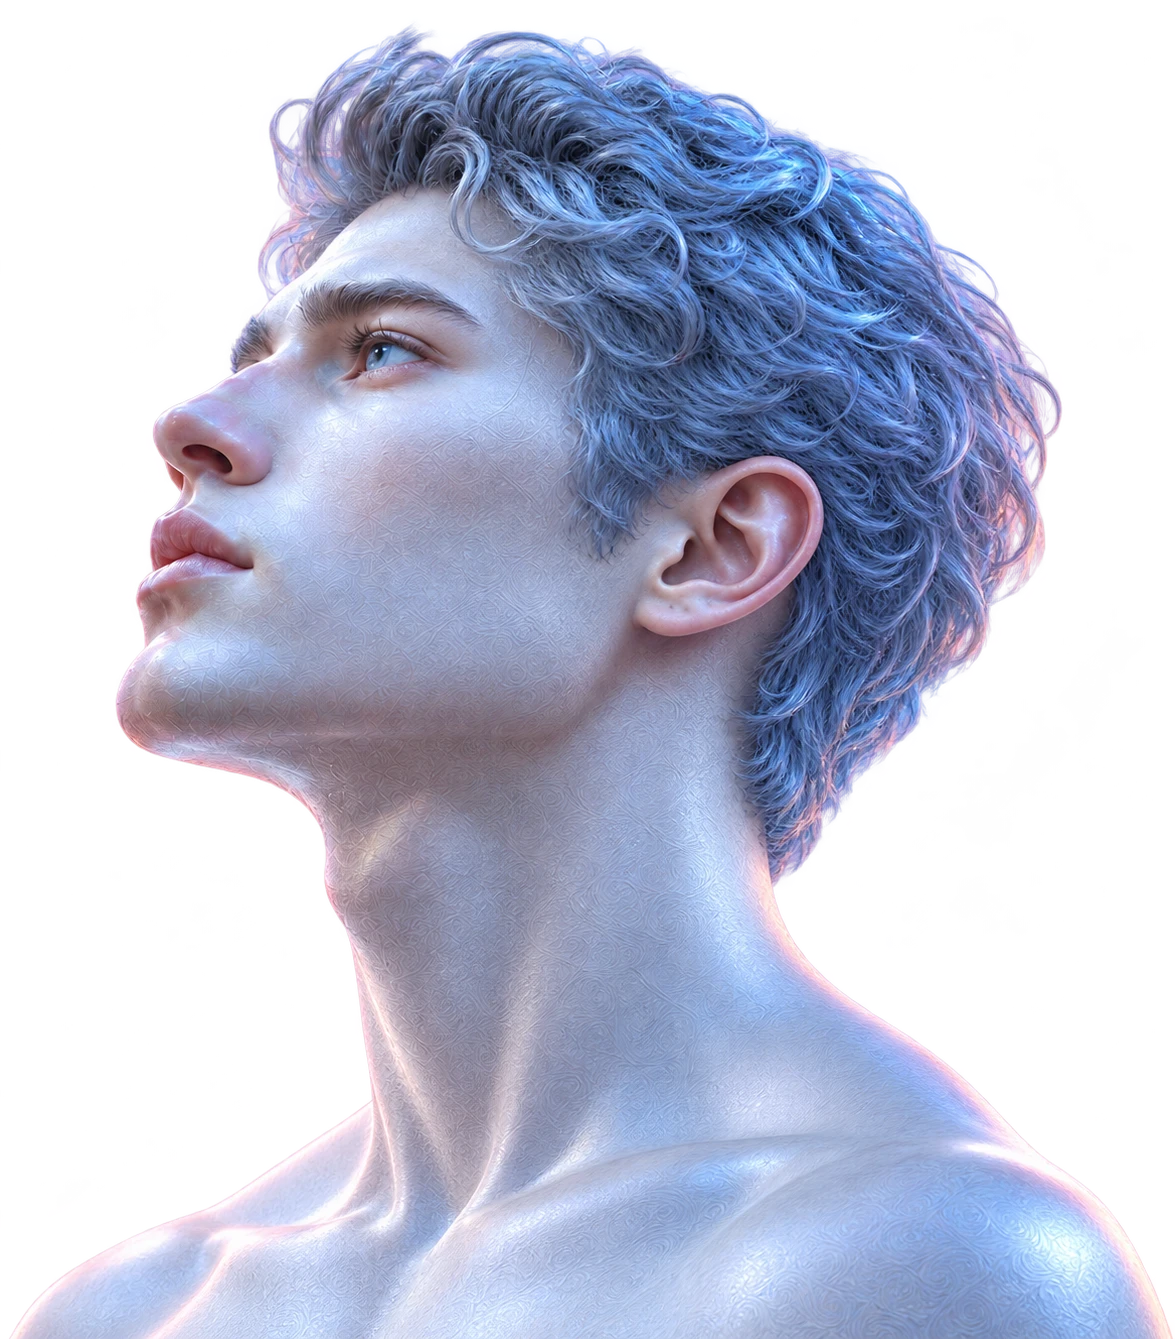
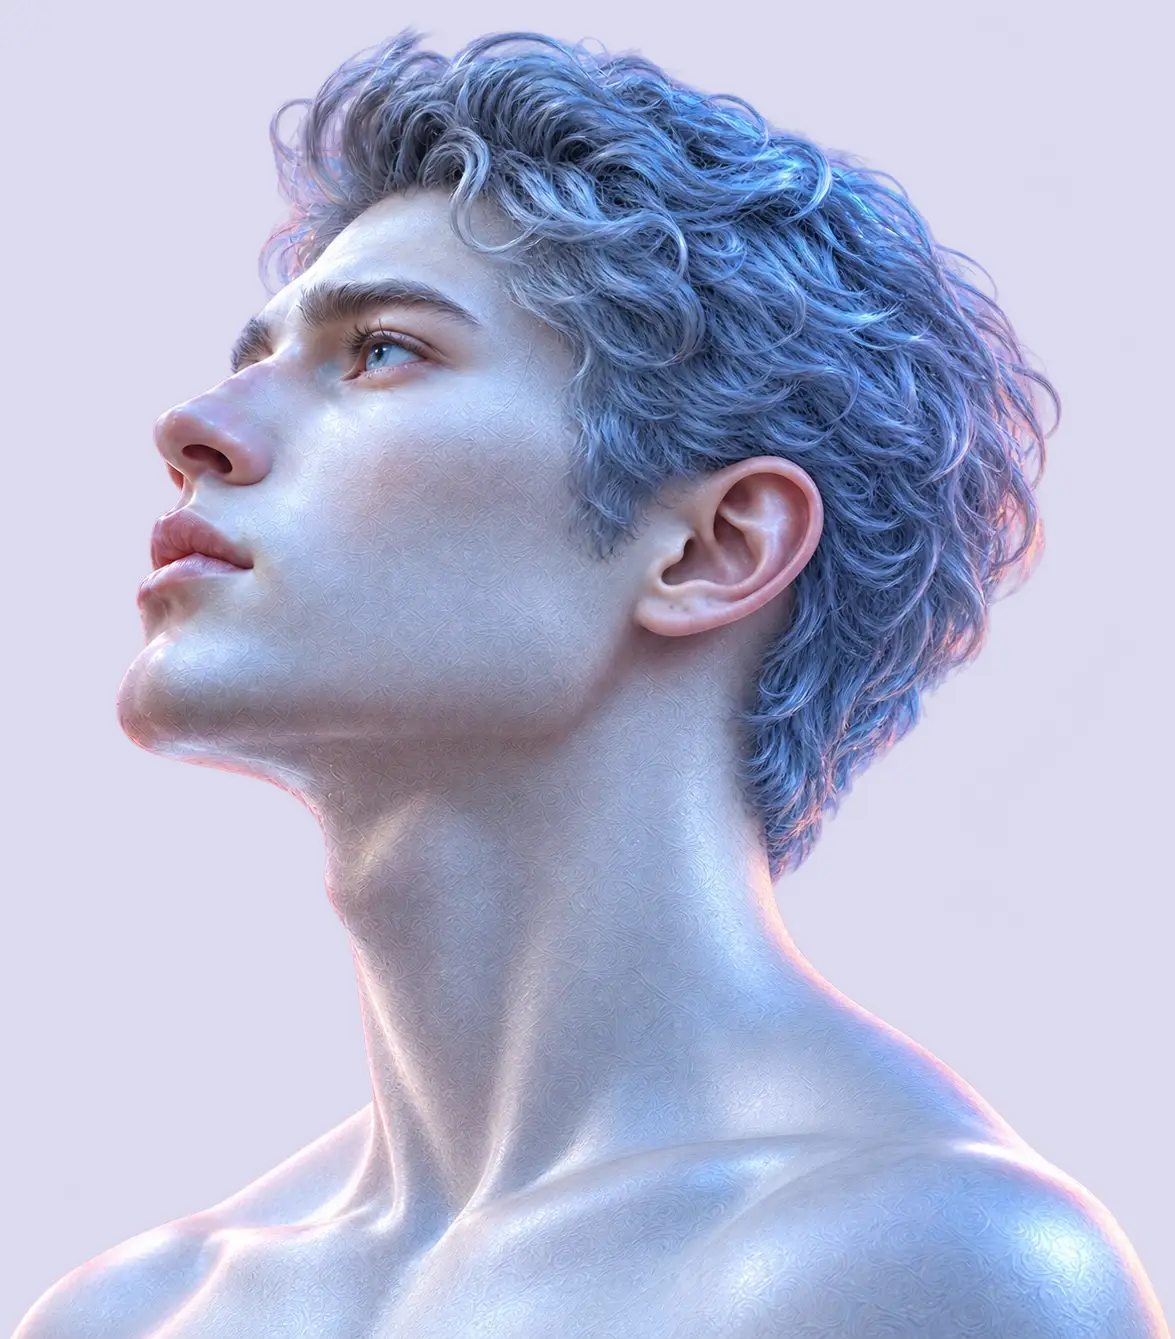
网站瘦身：首屏图片 1.66MB → 0.30MB
- 改用素材自带的透明通道做蒙版（比系统抠图精准），透明处填色后重新编码，去掉杂色占用的体积
- 薰衣草、蝴蝶按实际显示尺寸缩小；人像 WebP 质量 0.70
- 修复薰衣草叶片上的小黑点 / 杂色点（来自透明区域的残留色）

diff --git a/index.html b/index.html
@@ -15,11 +15,11 @@
 <link rel="preload" href="assets/fonts/montserrat-800.woff2" as="font" type="font/woff2" crossorigin>
 <link rel="preload" href="assets/img/portrait.webp" as="image" crossorigin="anonymous">
 <link rel="preload" href="assets/img/bg.webp" as="image" crossorigin="anonymous">
-<link rel="preload" href="assets/img/portrait-mask.png" as="image" crossorigin="anonymous">
+<link rel="preload" href="assets/img/portrait-mask.webp" as="image" crossorigin="anonymous">
 <link rel="preload" href="assets/img/lavender.webp" as="image" crossorigin="anonymous">
-<link rel="preload" href="assets/img/lavender-mask.png" as="image" crossorigin="anonymous">
+<link rel="preload" href="assets/img/lavender-mask.webp" as="image" crossorigin="anonymous">
 <link rel="preload" href="assets/img/butterfly.webp" as="image" crossorigin="anonymous">
-<link rel="preload" href="assets/img/butterfly-mask.png" as="image" crossorigin="anonymous">
+<link rel="preload" href="assets/img/butterfly-mask.webp" as="image" crossorigin="anonymous">
 <link rel="icon" href="favicon.svg" type="image/svg+xml">
 <link rel="stylesheet" href="assets/css/style.css">
 </head>

diff --git a/assets/js/shaders.js b/assets/js/shaders.js
@@ -143,10 +143,11 @@
     '    float skin = 1.0 - smoothstep(0.06, 0.20, c.b - c.r);',
     '    c = mix(c, cb, skin*uSkin);',
     '  }',
-    '  float m = texture2D(tMask, uv).r;',
-    '  float a = smoothstep(0.16, 0.88, m);',
-    '  vec3 f = clamp((c - (1.0 - a)) / max(a, 0.6), 0.0, 1.0);',   // 轻度去白边
-    '  return vec4(mix(c, f, 0.55), a);',
+    // 蒙版 = 素材原本的透明通道；彩色图透明处已填成淡紫 BG，这里把边缘的 BG 成分去掉
+    '  float a = smoothstep(0.03, 0.97, texture2D(tMask, uv).r);',
+    '  vec3 BG = vec3(0.863, 0.855, 0.941);',
+    '  vec3 f = clamp((c - (1.0 - a)*BG) / max(a, 0.35), 0.0, 1.0);',
+    '  return vec4(f, a);',
     '}'
   ].join('\n');
 

diff --git a/assets/js/stage.js b/assets/js/stage.js
@@ -116,9 +116,9 @@
   Stage.prototype.load = function (base, onProgress) {
     var self = this;
     var list = [
-      ['bg', 'bg.webp'], ['portrait', 'portrait.webp'], ['portraitMask', 'portrait-mask.png'],
-      ['lav', 'lavender.webp'], ['lavMask', 'lavender-mask.png'],
-      ['fly', 'butterfly.webp'], ['flyMask', 'butterfly-mask.png']
+      ['bg', 'bg.webp'], ['portrait', 'portrait.webp'], ['portraitMask', 'portrait-mask.webp'],
+      ['lav', 'lavender.webp'], ['lavMask', 'lavender-mask.webp'],
+      ['fly', 'butterfly.webp'], ['flyMask', 'butterfly-mask.webp']
     ];
     if (this.opts.debug) list.push(['design', 'design.webp']);
     var loader = new THREE.TextureLoader();

diff --git a/tools/serve.py b/tools/serve.py
@@ -18,14 +18,17 @@ class H(http.server.SimpleHTTPRequestHandler):
         u = urllib.parse.urlparse(self.path)
         if u.path != '/__shot':
             self.send_error(404); return
-        name = urllib.parse.parse_qs(u.query).get('name', ['shot'])[0]
+        qs = urllib.parse.parse_qs(u.query)
+        name = qs.get('name', ['shot'])[0]
         name = ''.join(ch for ch in name if ch.isalnum() or ch in '-_') or 'shot'
+        ext = qs.get('ext', ['png'])[0]
+        ext = ext if ext in ('png', 'webp', 'jpg') else 'png'
         n = int(self.headers.get('Content-Length', 0))
         data = self.rfile.read(n).decode()
         if ',' in data:
             data = data.split(',', 1)[1]
         os.makedirs(SHOTS, exist_ok=True)
-        with open(os.path.join(SHOTS, name + '.png'), 'wb') as f:
+        with open(os.path.join(SHOTS, name + '.' + ext), 'wb') as f:
             f.write(base64.b64decode(data))
         self.send_response(200); self.end_headers(); self.wfile.write(b'ok')
 
